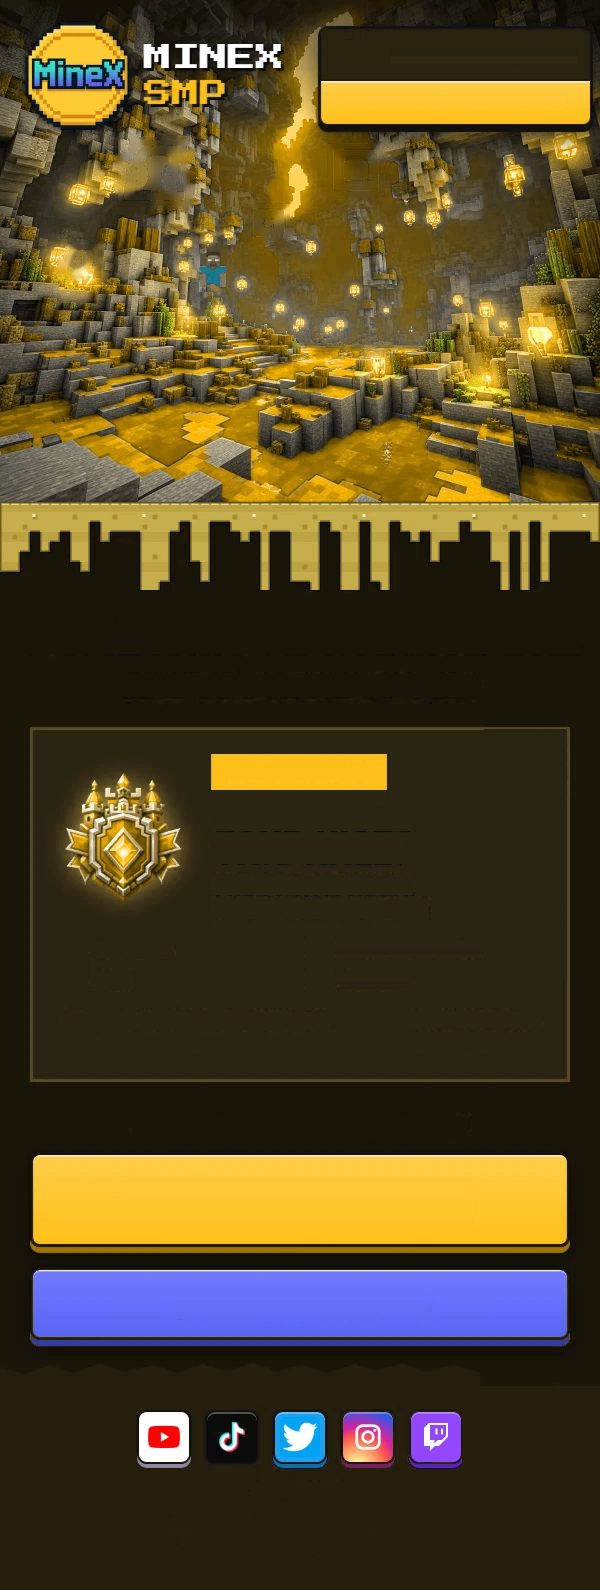
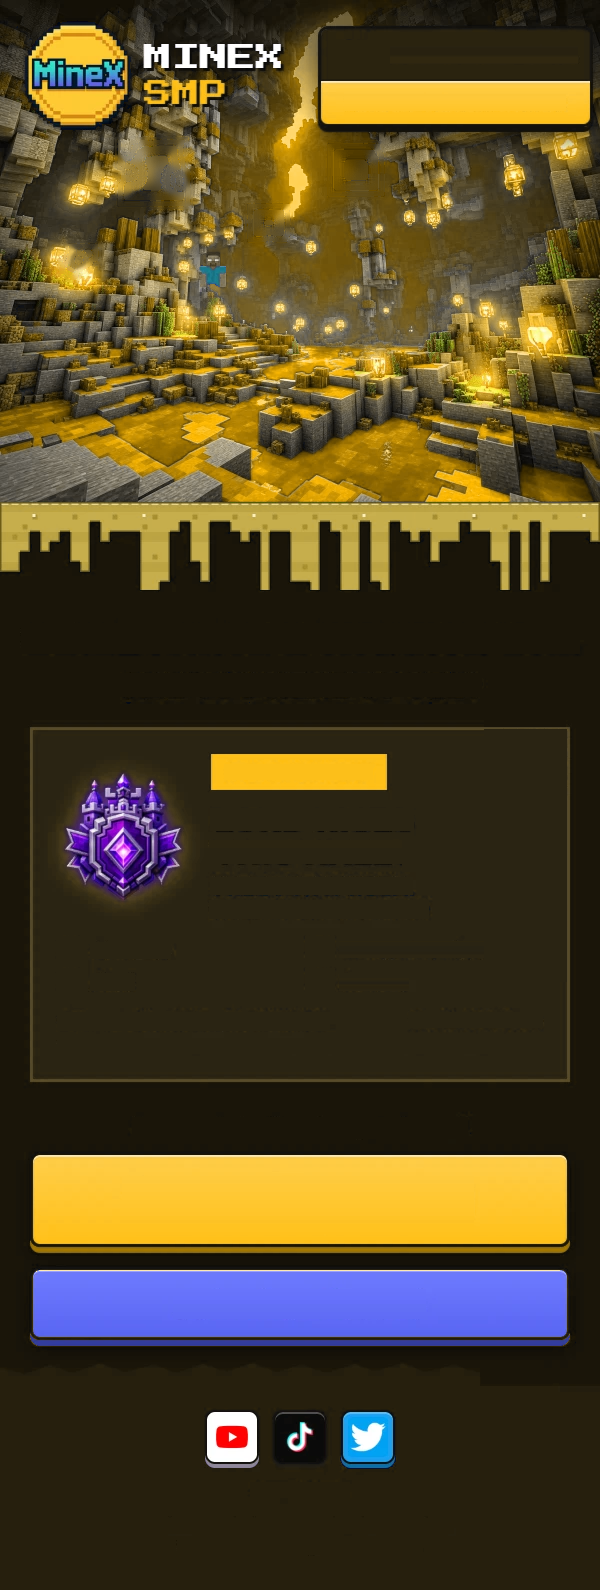
Normal email 1: purple Lord badge, 3 socials, Cracked + Premium, Dec 1 expiry

Changed region(s): [[0.21, 0.8629, 0.78, 0.9245], [0.09, 0.4623, 0.3, 0.5855]]

diff --git a/email/lord-week/index.html b/email/lord-week/index.html
@@ -1,4 +1,4 @@
-<!doctype html><html><head><meta charset="utf-8"><title>Normal email 1</title><link href="https://fonts.googleapis.com/css2?family=Archivo+Black&family=Outfit:wght@400;500;600;700&display=block" rel="stylesheet"><style>body{margin:0}</style></head><body><div style="position: relative; width: 600px; height: 1590px; overflow: hidden; background: #14100a">
+<html><head><link href="https://fonts.googleapis.com/css2?family=Archivo+Black&family=Outfit:wght@400;500;600;700&display=block" rel="stylesheet"><style>body{margin:0}</style></head><body><div style="position: relative; width: 600px; height: 1590px; overflow: hidden; background: #14100a">
 <img src="plate.png" alt="MineX SMP email artwork" style="position: absolute; left: 0px; top: 0px; width: 600px; height: 1590px; display: block">
 <img src="discord.png" alt="" style="position: absolute; left: 118px; top: 1288px; width: 38px; height: 29px; display: block">
 <img src="discord.png" alt="" style="position: absolute; left: 444px; top: 1288px; width: 38px; height: 29px; display: block">
@@ -7,7 +7,7 @@
 <div style="position: absolute; left: 62px; top: 974px; width: 17px; height: 17px; background: #ffc21a; border-radius: 3px"></div>
 <div style="position: absolute; left: 311px; top: 942px; width: 17px; height: 17px; background: #ffc21a; border-radius: 3px"></div>
 <div style="position: absolute; left: 311px; top: 974px; width: 17px; height: 17px; background: #ffc21a; border-radius: 3px"></div>
-<div style="position: absolute; left: 390.0px; top: 53.5px; font-family: 'Outfit', sans-serif; font-weight: 700; font-size: 16.53px; letter-spacing: 1.98px; line-height: 1; white-space: nowrap; color: #ffe9a8;">NEW UPDATE</div>
+<div style="position: absolute; left: 384.0px; top: 54.5px; font-family: 'Outfit', sans-serif; font-weight: 700; font-size: 14.5px; letter-spacing: 1.3px; line-height: 1; white-space: nowrap; color: #ffe9a8;">CRACKED + PREMIUM</div>
 <div style="position: absolute; left: 345.0px; top: 93.8px; font-family: 'Outfit', sans-serif; font-weight: 700; font-size: 16.65px; letter-spacing: 0.76px; line-height: 1; white-space: nowrap; color: #2b0a00;">NOW ON ALL PLATFORMS</div>
 <div style="position: absolute; left: 0; width: 600px; text-align: center; top: 620.9px; font-family: 'Archivo Black', sans-serif; font-weight: 900; font-size: 36.14px; letter-spacing: -0.16px; line-height: 1; white-space: nowrap; color: #ffffff;">THE NEW SEASON IS HERE</div>
 <div style="position: absolute; left: 0; width: 600px; text-align: center; top: 672.4px; font-family: 'Archivo Black', sans-serif; font-weight: 900; font-size: 25.09px; letter-spacing: 1.23px; line-height: 1; white-space: nowrap; color: #ffc21a; text-shadow: 2px 2px 0 #4a3300;">ARE YOU READY TO JUMP IN?</div>
@@ -20,7 +20,7 @@
 <div style="position: absolute; left: 340.0px; top: 940.8px; font-family: 'Outfit', sans-serif; font-weight: 600; font-size: 16.65px; letter-spacing: 0.30px; line-height: 1; white-space: nowrap; color: #ffd94d;">+14 Team members</div>
 <div style="position: absolute; left: 92.0px; top: 974.5px; font-family: 'Outfit', sans-serif; font-weight: 600; font-size: 18.06px; letter-spacing: -0.68px; line-height: 1; white-space: nowrap; color: #ffd94d;">/feed</div>
 <div style="position: absolute; left: 341.0px; top: 974.5px; font-family: 'Outfit', sans-serif; font-weight: 600; font-size: 18.06px; letter-spacing: -0.60px; line-height: 1; white-space: nowrap; color: #ffd94d;">/rename</div>
-<div style="position: absolute; left: 59.0px; top: 1012.1px; font-family: 'Outfit', sans-serif; font-weight: 500; font-size: 16.05px; letter-spacing: 0.12px; line-height: 1; white-space: nowrap; color: #f1ebdc;">Offer ends <span style="color: #ffc21a;">Sun 1st Nov, 12:00 AM EST</span></div>
+<div style="position: absolute; left: 59.0px; top: 1012.1px; font-family: 'Outfit', sans-serif; font-weight: 500; font-size: 16.05px; letter-spacing: 0.12px; line-height: 1; white-space: nowrap; color: #f1ebdc;">Offer ends <span style="color: #ffc21a;">Tue 1st Dec, 12:00 AM EST</span></div>
 <div style="position: absolute; left: 410.0px; top: 1013.1px; font-family: 'Outfit', sans-serif; font-weight: 600; font-size: 14.94px; letter-spacing: 0.16px; line-height: 1; white-space: nowrap; color: #ffc21a;">One Per IP Address</div>
 <div style="position: absolute; left: 59.0px; top: 1039.2px; font-family: 'Outfit', sans-serif; font-weight: 400; font-size: 13.13px; letter-spacing: -0.06px; line-height: 1; white-space: nowrap; color: #b0a68f;">11:00 PM CST&nbsp;&nbsp; 9:00 PM PST&nbsp;&nbsp; 5:00 AM GMT&nbsp;&nbsp; 6:00 AM CET&nbsp;&nbsp; 10:30 AM IST</div>
 <div style="position: absolute; left: 0px; width: 600px; text-align: center; top: 1117.0px; font-family: 'Outfit', sans-serif; font-weight: 500; font-size: 19.44px; letter-spacing: -0.21px; line-height: 1; white-space: nowrap; color: #f4efe2;">Return with this IP then open a ticket to claim your <span style="color: #ffd94d; font-weight: 700;">Reward</span></div>
